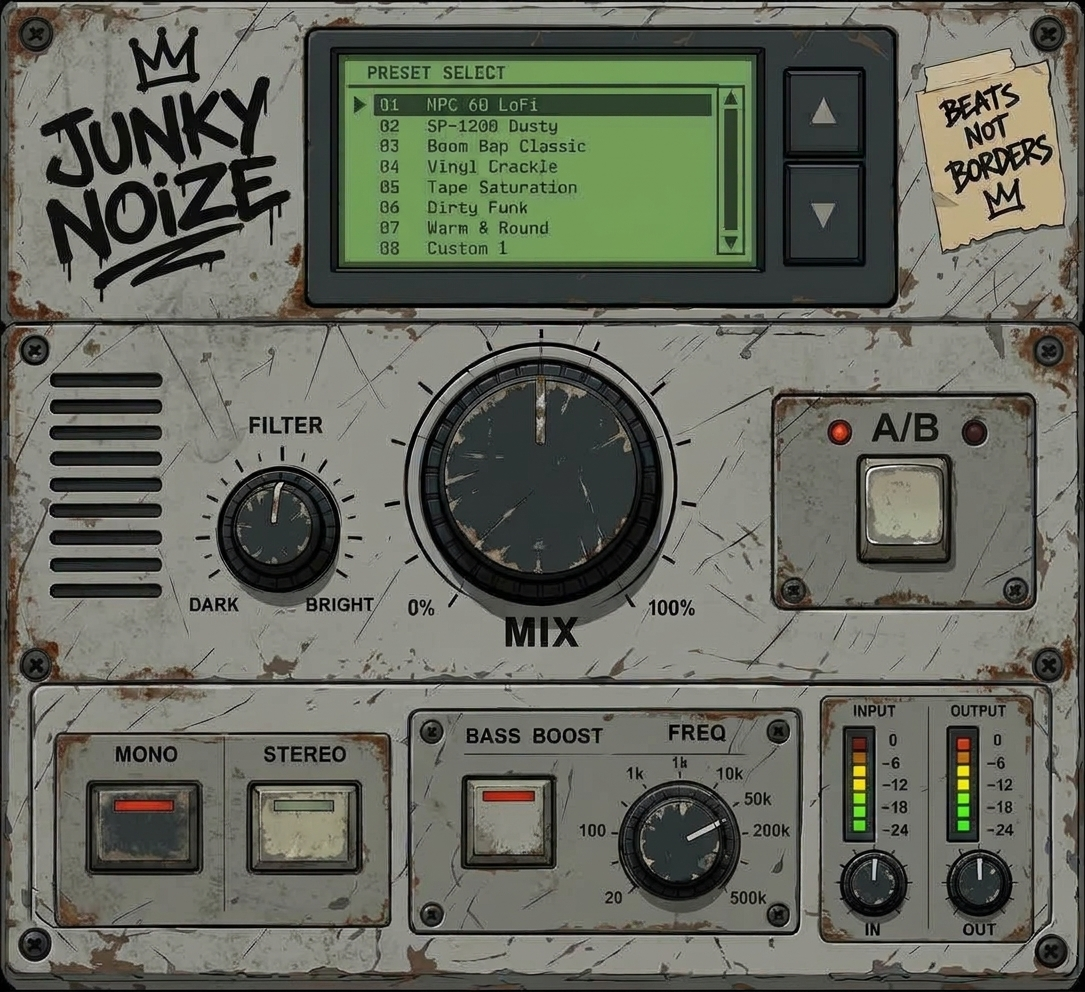
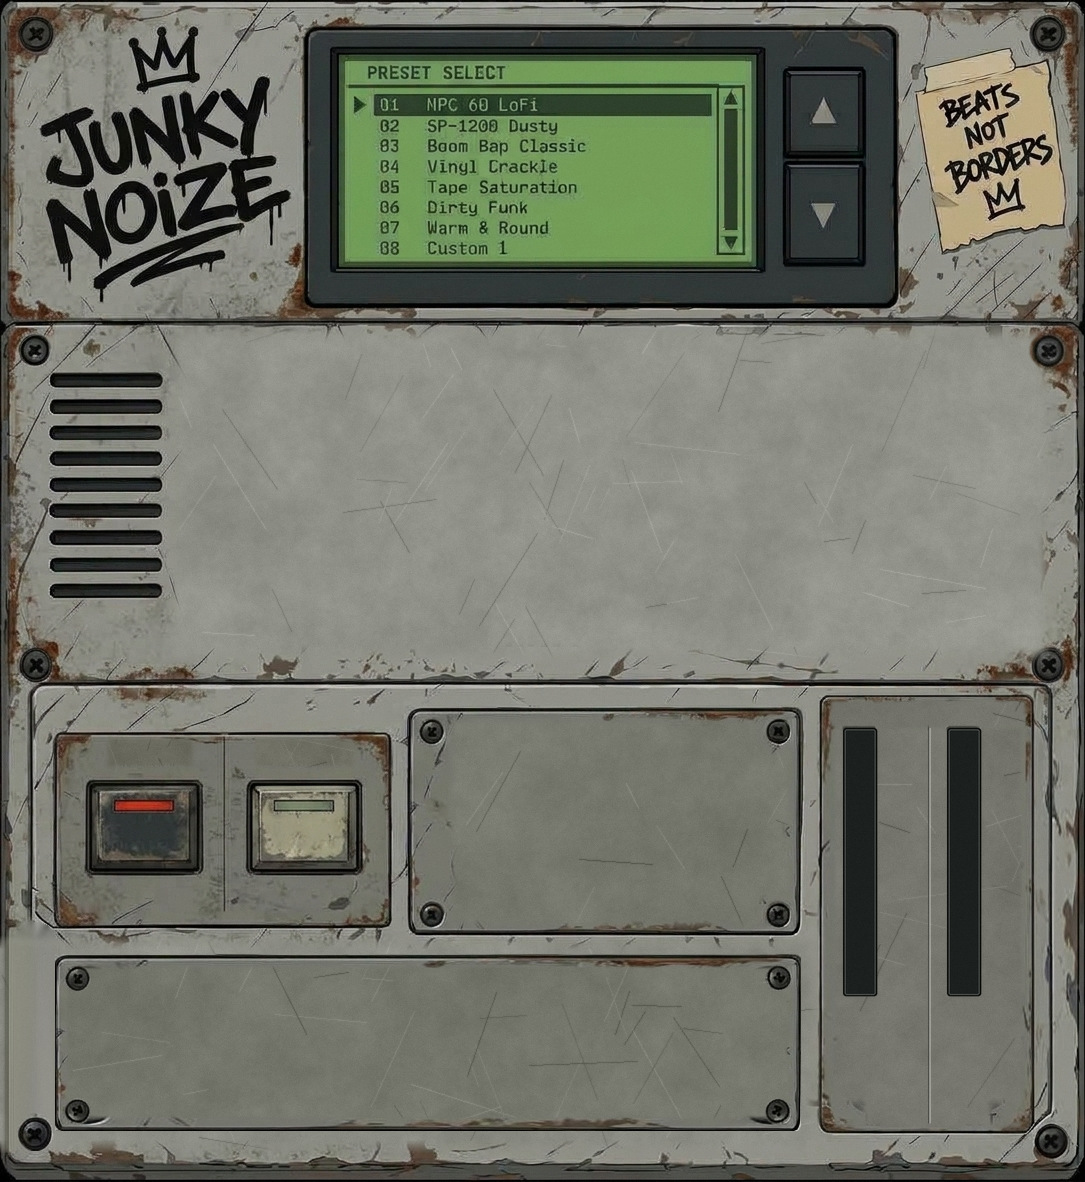
Use taller updated interface background

diff --git a/Source/PluginEditor.cpp b/Source/PluginEditor.cpp
@@ -141,7 +141,7 @@ void JunkyNoizeAudioProcessorEditor::resized()
     lcd.setBounds (fromDesign (340, 55, 420, 215));
     presetUpButton.setBounds (fromDesign (787, 70, 78, 85));
     presetDownButton.setBounds (fromDesign (787, 165, 78, 85));
-    saveTestButton.setBounds (fromDesign (600, 280, 150, 42));
+    saveTestButton.setBounds (fromDesign (560, 1000, 190, 58));
 
     filterKnob.setBounds (fromDesign (192, 443, 170, 170));
     mixKnob.setBounds (fromDesign (390, 327, 300, 300));

diff --git a/Source/ui/Chassis.h b/Source/ui/Chassis.h
@@ -4,8 +4,7 @@
 
 namespace junky
 {
-/** Dibuja el fondo de la maquina: chapa metalica, paneles, tornillos, rejilla, oxido y aranazos.
-    Se dibuja en las coordenadas del diseno (1085 x 992). */
+/** Dibuja el fondo de la maquina en las coordenadas del diseno (1085 x 1182). */
 void paintChassis (juce::Graphics& g);
 
 /** Dibuja los textos fijos: logo, etiquetas y la nota adhesiva. */

diff --git a/Source/ui/Theme.h b/Source/ui/Theme.h
@@ -9,7 +9,7 @@ namespace junky::theme
 {
 // Lienzo de referencia rasterizado a estas medidas para mantener fija la interfaz.
 inline constexpr float designWidth = 1085.0f;
-inline constexpr float designHeight = 992.0f;
+inline constexpr float designHeight = 1182.0f;
 
 inline const juce::Colour metalLight { 0xffb9bbb7 };
 inline const juce::Colour metalMid { 0xff9a9c98 };
